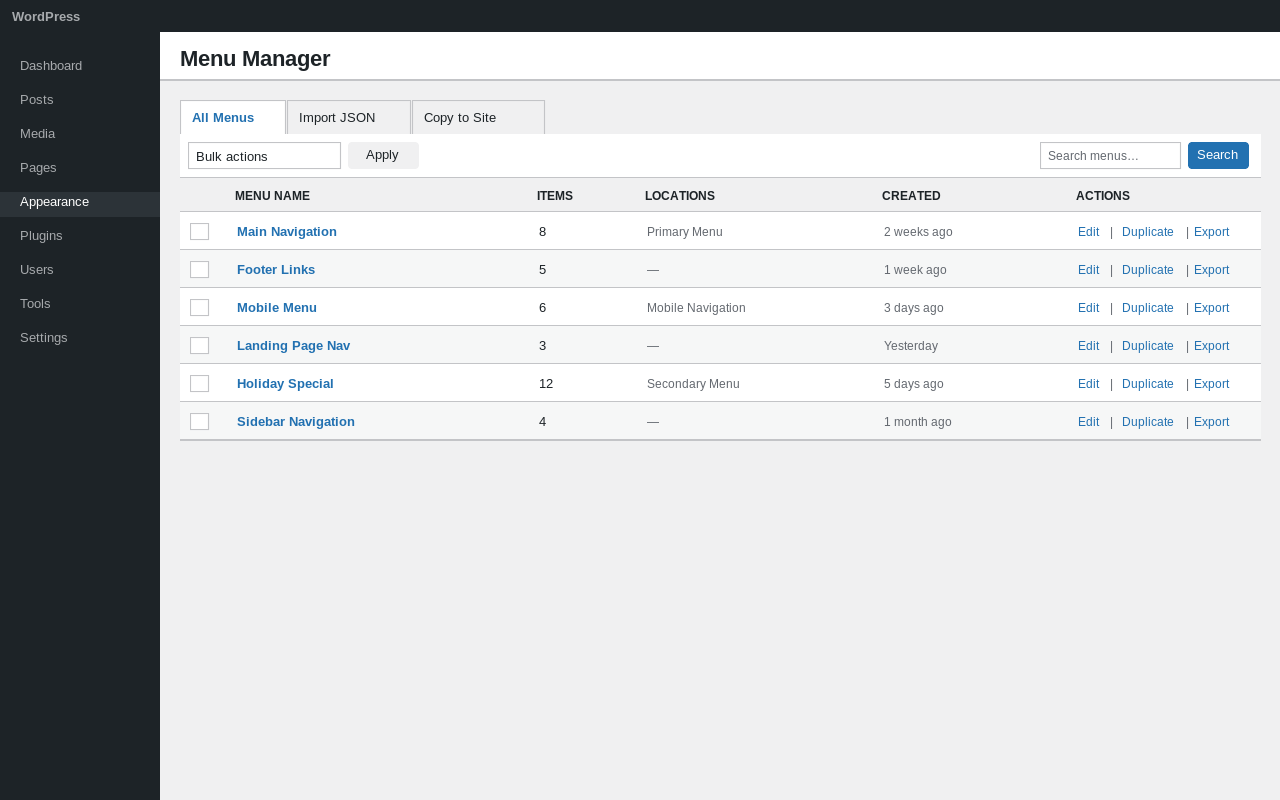
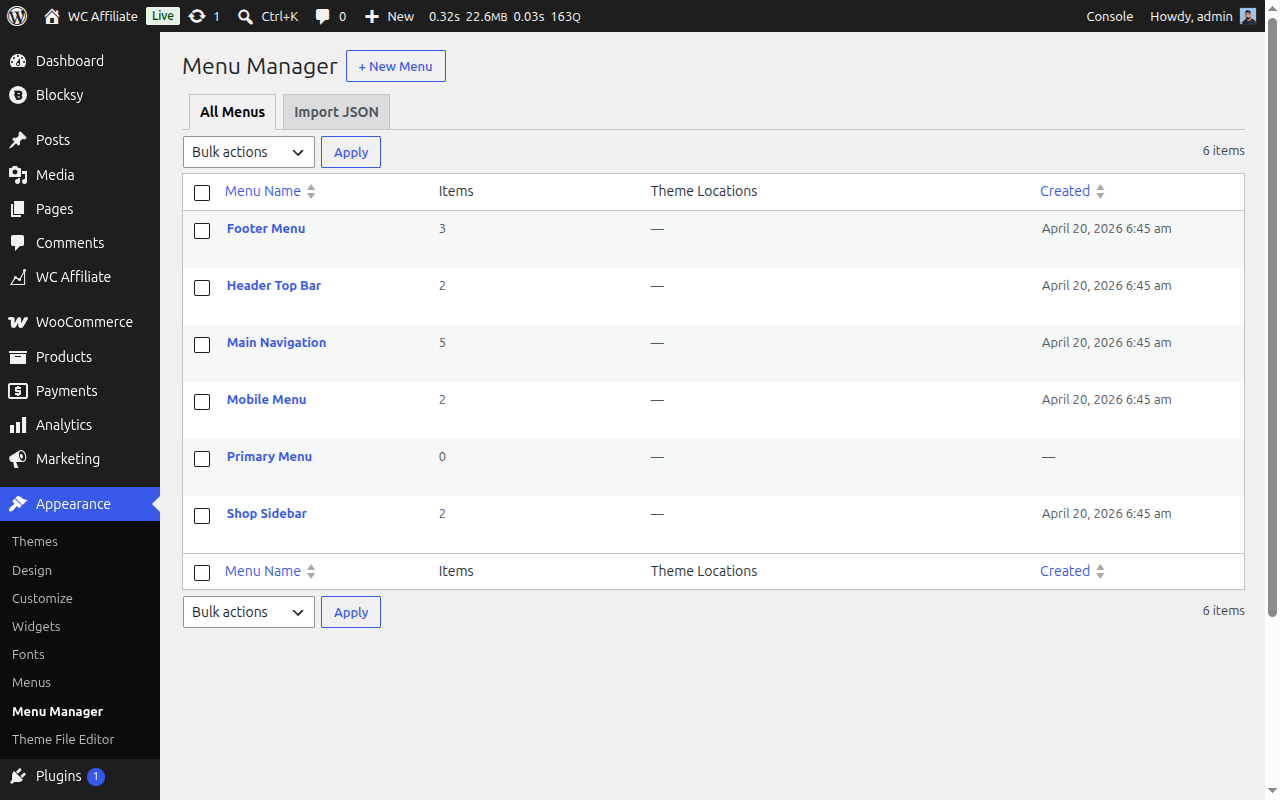
feat(assets): replace generated screenshots 1-4 with real browser captures
Screenshots 1-4 are now actual Playwright captures from the live WP admin
(nav-menus.php with Duplicate Menu button, Menu Manager with 6 menus,
Snapshots panel, Import JSON tab). Screenshot 5 (WP-CLI terminal) remains
PHP-generated. The generate-screenshots.php script now only produces screenshot-5.

diff --git a/resources/banners-icons/generate-screenshots.php b/resources/banners-icons/generate-screenshots.php
@@ -661,12 +661,8 @@ function screenshot_5(string $out, string $fontBold, string $fontRegular, string
 }
 
 // ---------------------------------------------------------------------------
-// Run
+// Run — screenshots 1-4 are real browser captures; only 5 is generated here
 // ---------------------------------------------------------------------------
 echo "Generating screenshots...\n";
-screenshot_1("{$OUT_DIR}/screenshot-1.png", $FONT_BOLD, $FONT_REGULAR);
-screenshot_2("{$OUT_DIR}/screenshot-2.png", $FONT_BOLD, $FONT_REGULAR);
-screenshot_3("{$OUT_DIR}/screenshot-3.png", $FONT_BOLD, $FONT_REGULAR);
-screenshot_4("{$OUT_DIR}/screenshot-4.png", $FONT_BOLD, $FONT_REGULAR);
 screenshot_5("{$OUT_DIR}/screenshot-5.png", $FONT_BOLD, $FONT_REGULAR, $FONT_MONO);
 echo "Done. Output → {$OUT_DIR}/\n";
